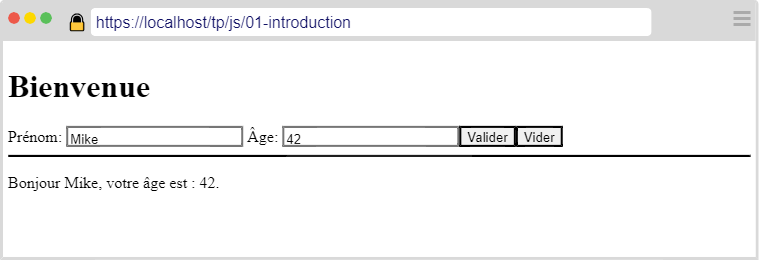
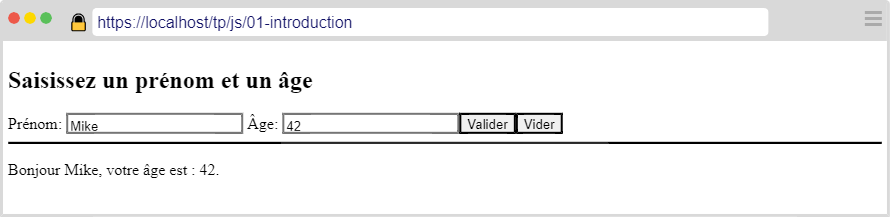
Update exercice intro JS

Changed region(s): [[0.0, 0.47, 1.0, 0.8295], [0.0, 0.0276, 1.0, 0.1935], [0.0, 0.2765, 0.3636, 0.4424]]

diff --git a/docs/tp/web/html-css-js/01-intro/index.md b/docs/tp/web/html-css-js/01-intro/index.md
@@ -14,6 +14,7 @@ Dans un document HTML:
 3. Ajouter un `label` et un `input` permettant de saisir un âge.
 4. Ajouter un `button` de validation (attention, le formulaire ne doit pas être soumis !).
 5. Ajouter un bouton permettant de vider le formulaire. 
+6. Un bloc pour l'affichage du résultat
 
 Votre page devrait ressembler à la capture suivante :
 
@@ -22,6 +23,45 @@ Votre page devrait ressembler à la capture suivante :
 Au clic sur le bouton de validation :
 - Si le prénom n'est pas vide et que l'âge est un entier valide supérieur à 0 :
     - Afficher le texte comme sur la capture suivante.
+- Sinon 
+    - Afficher "Compléter/corriger le formulaire"
 
 ![capture formulaire validé](./img/exo1-2.png)
 
+
+## Exercice 2 : Majorité
+
+Ajouter un message pour indiquer, selon l'âge saisi, si la personne est "mineure" ou "majeure".
+
+![capture formulaire validé](./img/exo1-3.png)
+
+
+## Exercice 3 : Retraite
+
+Ajouter un message pour indiquer, toujours selon l'âge saisi, le nombre d'années avant ou après la retraite. 
+
+Le message diffère selon le cas: 
+
+- age < 64 : "Il vous reste X année(s) avant la retraite"
+- age > 64 : "Vous êtes à la retraite depuis X année(s)"
+- age = 64 : "Vous prenez votre retraite cette année !"
+
+![capture formulaire validé](./img/exo1-4.png)
+
+
+## Exercice 4 : Mise en forme 
+
+Mettez en forme votre page afin qu'elle corresponde aux captures suivantes :
+
+Le cadre bleu fait 800px de large et est centré sur la page.
+
+La police utilisée est "Verdana".
+
+**Moins de 64 ans** 
+![capture formulaire validé](./img/exo1-5.png)
+
+**64 ans**
+![capture formulaire validé](./img/exo1-6.png)
+
+**Plus de 64 ans**
+![capture formulaire validé](./img/exo1-7.png)
